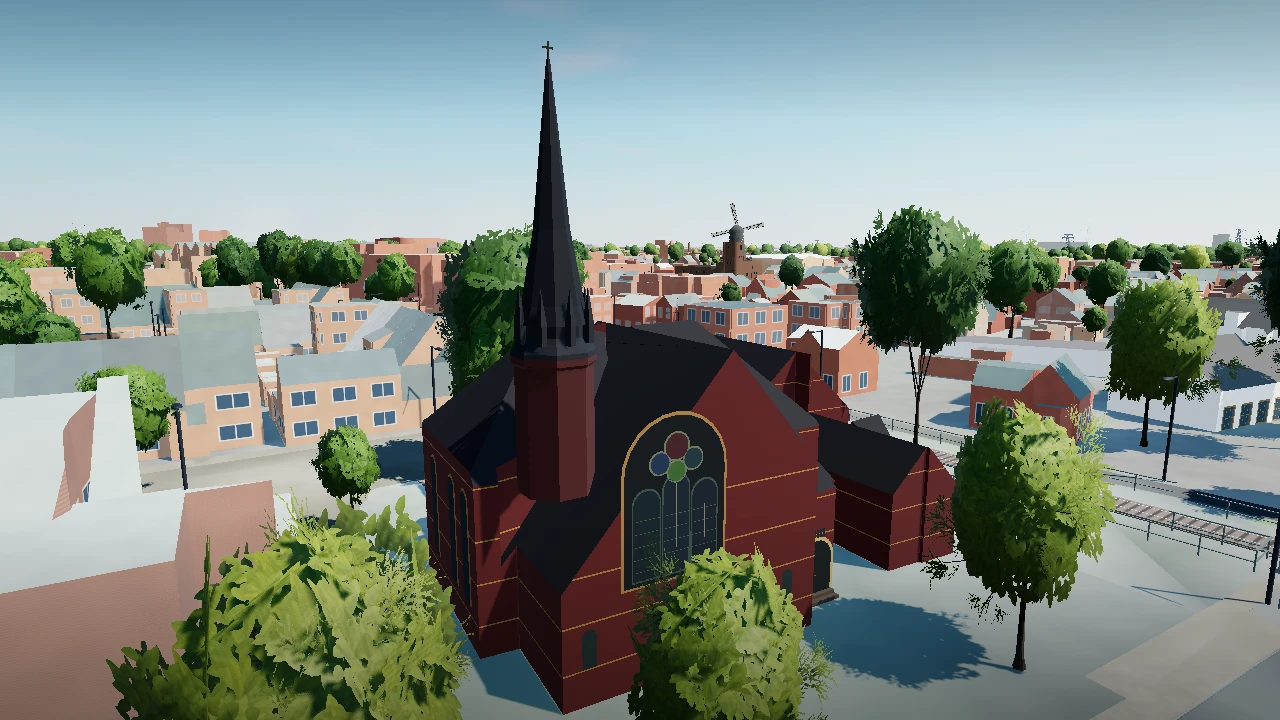
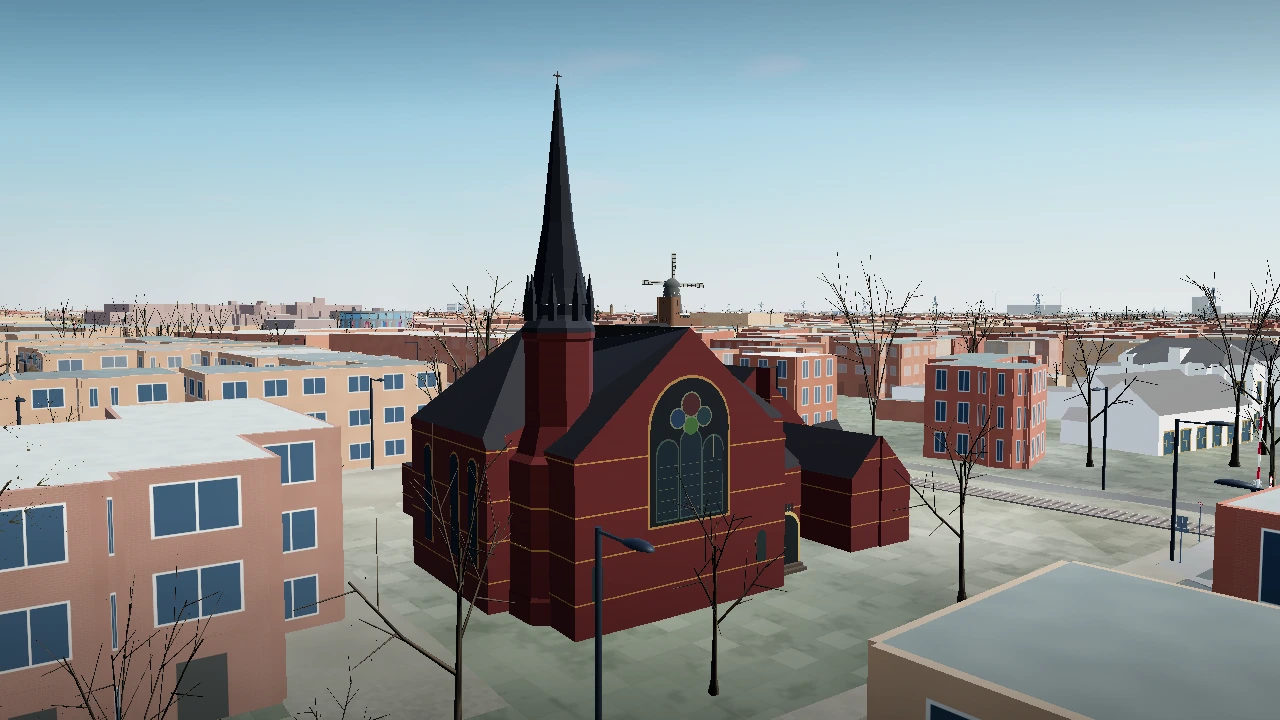
Rebrand to Ede in 3D and refine Noorderkerk
Renames the project from “Slop Ede” to “Ede in 3D” across the app UI, docs, generated report headers, and tooling user-agent strings, and adds the municipal crest SVG as the site favicon. It also updates README figures/text and refreshes the Noorderkerk presentation with a new screenshot plus geometry fixes: centered north window detailing, adjusted survey points, grounded tower shaft with masonry bands, and an explicit tower collider footprint.

diff --git a/js/ede-church-landmarks.js b/js/ede-church-landmarks.js
@@ -166,11 +166,11 @@ const NOORDER = {
     [-224.14,20.15,-312.26],[-221.46,20.15,-312.07],[-221.47,20.15,-311.88],[-219.02,20.15,-311.68],[-219.34,20.15,-306.67],[-218.63,20.15,-306.63],
     [-216.86,20.15,-306.55],[-216.73,20.15,-308.49],[-216.55,20.15,-308.28],[-216.53,20.15,-308.5],[-214.96,20.15,-308.4],[-214.91,20.15,-309.12],
     [-214.77,20.15,-311.26],[-214.54,20.15,-311.23],[-214.53,20.15,-311.58],[-212.18,20.15,-311.45],[-211.53,20.15,-311.42],[-211.43,20.15,-313.12],
-    [-206.46,20.15,-312.84],[-219.76,22.86,-284.26],[-220.86,22.88,-284.33],[-229.24,24.34,-286.58],[-229.35,24.41,-284.55],[-227.99,28.33,-285.99],
+    [-205.045,20.15,-312.755],[-219.76,22.86,-284.26],[-220.86,22.88,-284.33],[-229.24,24.34,-286.58],[-229.35,24.41,-284.55],[-227.99,28.33,-285.99],
     [-227.99,25.51,-285.99],[-226.85,26.52,-285.97],[-226.85,29.35,-285.97],[-197.93,28.57,-297.65],[-197.28,28.52,-306.87],[-229.23,27.17,-286.72],
-    [-229.24,27.17,-286.58],[-198.66,25.04,-312.39],[-206.46,33.72,-312.84],[-202.48,23.8,-285.87],[-202.18,23.5,-290.11],[-202.18,23.81,-290.11],
+    [-229.24,27.17,-286.58],[-198.66,28.12,-312.39],[-205.045,33.72,-312.755],[-202.48,23.8,-285.87],[-202.18,23.5,-290.11],[-202.18,23.81,-290.11],
     [-202.62,23.81,-290.14],[-220.69,25.73,-287.1],[-219.97,23.8,-287.05],[-219.97,25.08,-287.05],[-197.25,28.04,-307.28],[-198.31,24.27,-307.39],
-    [-198.31,27.95,-307.39],[-199.02,25.05,-307.47],[-211.43,28.12,-313.12],[-211.53,28.13,-311.42],[-219.21,25.03,-298.08],[-219.21,23.82,-298.08],
+    [-198.31,27.95,-307.39],[-199.02,28.12,-307.47],[-211.43,28.12,-313.12],[-211.53,28.12,-311.42],[-219.21,25.03,-298.08],[-219.21,23.82,-298.08],
     [-219.21,22.75,-298.08],[-225.03,22.75,-298.45],[-225.03,30.21,-298.45],[-216.86,23.84,-306.55],[-218.63,23.84,-306.63],[-216.73,23.84,-308.49],
     [-224.92,27.08,-305.99],[-225.06,24.72,-303.86],[-224.17,24.26,-312.11],[-224.23,24.2,-312.12],[-230.43,25.33,-299.04],[-231.21,25.39,-286.82],
     [-222.61,26.8,-305.72],[-222.61,26.2,-305.72],[-222.64,26.17,-305.77],[-222.64,26.86,-305.77],[-201.66,27.2,-297.63],[-201.66,28.26,-297.63],
@@ -196,7 +196,7 @@ const NOORDER = {
     [-208.16,27.36,-294.71],[-208.16,27.34,-294.71],[-207.25,27.35,-294.64],[-214.77,26.11,-311.26],[-223.39,25.35,-307.2],[-206.38,32.77,-302.01],
     [-224.67,24.01,-308.58],[-224.74,24.01,-308.59],[-224.47,24.2,-308.56],[-205.9,32.91,-303.44],[-205.9,32.35,-303.44],[-205.7,32.18,-304.06],
     [-224.81,24.68,-303.83],[-213.41,28.27,-298.38],[-213.41,23.82,-298.38],[-222.1,26.89,-302.7],[-211.9,33.75,-303.16],[-202.4,33.76,-302.58],
-    [-207.34,33.69,-300.23],
+    [-205.765,33.72,-300.165],
   ],
   faces: [
     [0,[85,45,44,86]],
@@ -969,7 +969,7 @@ function church(name, survey, style, details) {
   for (const [face, normal] of trim) {
     for (const nap of style.friezes) frieze(batch, face, normal, nap, style.band);
   }
-  details(batch);
+  details(batch, masonry);
 
   const outer = survey.ground[0].map(i => ({ x: points[i][0], z: points[i][2] }));
   const holes = survey.ground.slice(1).map(ring => ring.map(i => ({ x: points[i][0], z: points[i][2] })));
@@ -1026,25 +1026,33 @@ export function createNieuweKerk() {
 }
 
 export function createNoorderkerk() {
-  return church('Noorderkerk · Edesche Concertzaal', NOORDER, {
+  const x = -200.44, z = -308.62;
+  const towerRadius = 2.48;
+  const towerTop = 33.50;
+  const towerFootprint = Array.from({ length: 8 }, (_, i) => {
+    const angle = Math.PI / 8 + i * Math.PI / 4;
+    return { x: x + Math.cos(angle) * towerRadius, z: z + Math.sin(angle) * towerRadius };
+  });
+  const foundation = Math.min(NOORDER.base, ...towerFootprint.map(p =>
+    terrainHeightAt(p.x, p.z) + SCENE_NAP_ORIGIN - 0.06));
+  const model = church('Noorderkerk · Edesche Concertzaal', NOORDER, {
     wall: 0x8d5145, roof: 0x514b4b, friezes: [21.70, 23.63, 25.56, 27.90], band: 0xb59663,
-  }, batch => {
+  }, (batch, masonry) => {
     const front = frontage([-211.43, -313.12], [-198.66, -312.39]);
-    const center = -1.42; // Align the window with the surveyed gable ridge.
-    arch(batch, front, center, 5.02, 24.46, 31.50, 0xb1956b, 0.041);
-    arch(batch, front, center, 4.77, 24.57, 31.36, 0x27383d, 0.061);
+    arch(batch, front, 0, 5.02, 24.46, 31.50, 0xb1956b, 0.041);
+    arch(batch, front, 0, 4.77, 24.57, 31.36, 0x27383d, 0.061);
     for (let i = -1; i <= 1; i++) {
-      arch(batch, front, center + 1.38 * i, 1.35, 24.73, 28.58 + (i === 0 ? 0.42 : 0), 0x737d72, 0.075);
-      arch(batch, front, center + 1.38 * i, 1.22, 24.81, 28.49 + (i === 0 ? 0.42 : 0), GLASS[i + 1], 0.085);
-      for (let j = 0; j < 5; j++) rect(batch, front, center + 1.38 * i, 1.21, 25.17 + j * .53,
+      arch(batch, front, 1.38 * i, 1.35, 24.73, 28.58 + (i === 0 ? 0.42 : 0), 0x737d72, 0.075);
+      arch(batch, front, 1.38 * i, 1.22, 24.81, 28.49 + (i === 0 ? 0.42 : 0), GLASS[i + 1], 0.085);
+      for (let j = 0; j < 5; j++) rect(batch, front, 1.38 * i, 1.21, 25.17 + j * .53,
         25.19 + j * .53, 0x828475, 0.096);
-      rect(batch, front, center + 1.38 * i, .028, 24.98, 28.56, 0x9d9780, 0.098);
+      rect(batch, front, 1.38 * i, .028, 24.98, 28.56, 0x9d9780, 0.098);
     }
     for (const [u, nap, radius, hue] of [
       [0, 30.10, .54, 0x7b5351], [-.78, 29.49, .43, 0x536a6b], [.78, 29.49, .43, 0x55697b], [0, 29.08, .41, 0x73895d],
     ]) {
-      circle(batch, front, center + u, nap, radius + 0.075, 0x92927d, 0.085);
-      circle(batch, front, center + u, nap, radius, hue, 0.098);
+      circle(batch, front, u, nap, radius + 0.075, 0x92927d, 0.085);
+      circle(batch, front, u, nap, radius, hue, 0.098);
     }
     for (const u of [-4.7, 5.27]) arch(batch, front, u, 0.61, 21.75, 23.38, 0x53625d, 0.052);
     const entry = frontage([-214.53, -311.58], [-212.18, -311.45]);
@@ -1059,8 +1067,15 @@ export function createNoorderkerk() {
       arch(batch, side, u, 0.98, 22.23, 27.37, GLASS[1], 0.066);
       for (let i = 0; i < 5; i++) rect(batch, side, u, .94, 23.02 + i * .72, 23.07 + i * .72, FRAME, .077);
     }
-    const x = -200.44, z = -308.62;
-    spindle(batch, x, z, 8, [[1.64, 27.74], [1.64, 33.08], [1.76, 33.22], [1.76, 33.50]], 0x825348);
+    const firstBrick = batch.vertices.length / 3;
+    spindle(batch, x, z, 8, [
+      [towerRadius, foundation], [towerRadius, 21.24], [2.40, 21.42], [2.40, 27.55],
+      [2.08, 27.87], [1.64, 29.18], [1.64, 33.08], [1.76, 33.22], [1.76, towerTop],
+    ], 0x8d5145);
+    for (let i = firstBrick; i < batch.vertices.length / 3; i++) masonry[i] = 1;
+    for (const nap of [23.63, 25.56]) {
+      spindle(batch, x, z, 8, [[2.415, nap - 0.04], [2.415, nap + 0.04]], 0xb59663);
+    }
     spindle(batch, x, z, 8, [[1.78, 33.50], [1.75, 33.71], [1.43, 34.12], [1.34, 34.29], [1.36, 34.77]], 0x525155);
     spindle(batch, x, z, 8, [[1.52, 34.79], [1.29, 35.54], [.74, 38.54], [.073, 44.96]], 0x49494d);
     for (let i = 0; i < 8; i++) {
@@ -1070,6 +1085,13 @@ export function createNoorderkerk() {
     }
     cross(batch, x, z, 44.86, .74, 0x655949);
   });
+  model.userData.colliders.push({
+    minX: Math.min(...towerFootprint.map(p => p.x)), maxX: Math.max(...towerFootprint.map(p => p.x)),
+    minZ: Math.min(...towerFootprint.map(p => p.z)), maxZ: Math.max(...towerFootprint.map(p => p.z)),
+    minY: foundation - SCENE_NAP_ORIGIN, maxY: towerTop - SCENE_NAP_ORIGIN,
+    polygon: { outer: towerFootprint, holes: [] },
+  });
+  return model;
 }
 
 export function createSintAntoniuskerk() {

diff --git a/index.html b/index.html
@@ -3,8 +3,8 @@
 <head>
   <meta charset="UTF-8" />
   <meta name="viewport" content="width=device-width, initial-scale=1.0, viewport-fit=cover" />
-  <title>Slop Ede</title>
-  <link rel="icon" href="data:," />
+  <title>Ede in 3D</title>
+  <link rel="icon" type="image/svg+xml" href="./assets/wapen-van-ede.svg" />
   <meta name="description" content="Explore Ede in 3D on foot, by car, bicycle, or helicopter." />
   <!-- Pinned Three.js runtime is served locally for offline play. -->
   <script type="importmap">
@@ -216,14 +216,14 @@
   <div id="loading-overlay" role="status" aria-live="polite">
     <div class="loader">
       <img class="ede-logo loader-logo" src="./assets/wapen-van-ede.svg" alt="Wapen van Ede" />
-      <div class="loader-title">Slop Ede</div>
+      <div class="loader-title">Ede in 3D</div>
       <div class="loader-track is-indeterminate" aria-hidden="true"><span id="loading-progress" class="loader-fill"></span></div>
       <div id="loading-status">Loading city code and data...</div>
     </div>
   </div>
 
   <!-- 3D WebGPU Viewport Container -->
-  <main id="canvas-container" data-train-prediction-seconds="32" aria-label="3D Interactive Slop Ede Viewport"></main>
+  <main id="canvas-container" data-train-prediction-seconds="32" aria-label="Interactive map of Ede in 3D"></main>
   <div class="map-attribution">
     <a href="https://api.pdok.nl/lv/bgt/ogc/v1/collections?f=html" target="_blank" rel="noopener noreferrer">Structures and streets via PDOK BGT</a>
     <a href="https://geo.ede.nl/geoserver/Ede/wfs?service=WFS&amp;request=GetCapabilities" target="_blank" rel="noopener noreferrer">Bins and play sites by Gemeente Ede</a>
@@ -248,8 +248,8 @@
       <img class="ede-logo" src="./assets/wapen-van-ede.svg" alt="Wapen van Ede" />
       <div class="brand-titles">
         <div class="brand-heading">
-          <h1>Slop Ede</h1>
-          <a class="repo-link" href="https://github.com/rolandsmeenk/slop-ede/" target="_blank" rel="noopener noreferrer" aria-label="Slop Ede on GitHub (opens in a new tab)">GitHub <span aria-hidden="true">↗</span></a>
+          <h1>Ede in 3D</h1>
+          <a class="repo-link" href="https://github.com/rolandsmeenk/slop-ede/" target="_blank" rel="noopener noreferrer" aria-label="Ede in 3D on GitHub (opens in a new tab)">GitHub <span aria-hidden="true">↗</span></a>
         </div>
         <div class="brand-subtitle">three.js · WebGPU · TSL · <span id="hud-fps" class="fps-ok">60</span> fps</div>
       </div>

diff --git a/tools/build-ede-bgt-detail.py b/tools/build-ede-bgt-detail.py
@@ -117,7 +117,7 @@ def fetch_gates(directory, sites, affine):
             bbox = ','.join(f'{value:.8f}' for value in geographic_bounds(bounds, affine))
             url = f'https://api.openstreetmap.org/api/0.6/map?bbox={bbox}'
             raw = subprocess.check_output(['curl', '-fsSL', '--max-time', '12', '--compressed', '--user-agent',
-                                           'Slop Ede offline street-detail importer (github.com/rolandsmeenk/slop-ede)', url])
+                                           'Ede in 3D offline street-detail importer (github.com/rolandsmeenk/slop-ede)', url])
             for node in ElementTree.fromstring(raw).findall('node'):
                 tags = {tag.attrib['k']: tag.attrib['v'] for tag in node.findall('tag')}
                 if tags.get('barrier') in GATE_TAGS.split('|'):

diff --git a/tools/report-ede-crossings.py b/tools/report-ede-crossings.py
@@ -125,7 +125,7 @@ def report(raw, catalog, output, survey=None):
     topology = catalog['topology']
     counts = catalog['counts']
     with output.open('w') as file:
-        file.write('# Slop Ede crossing audit\n\n')
+        file.write('# Ede in 3D crossing audit\n\n')
         file.write(f'The catalogue contains {counts["knownStructural"]} requested structures, {counts["confirmed"]} additional confirmed map features, '
                    f'{counts["candidate"]} discovery candidates and {counts["level"]} public level crossings. '
                    f'This run used Chrome {raw["backend"]}. There are {levels["Pass"]} passed, {levels["Fail"]} failed and {levels["Unverified"]} unverified route levels. '

diff --git a/tools/ede_municipal_detail.py b/tools/ede_municipal_detail.py
@@ -76,7 +76,7 @@ def fetch_access_tiles(directory, geographic_bounds):
         box_string = ','.join(f'{n:.8f}' for n in bounds)
         url = 'https://api.openstreetmap.org/api/0.6/map?bbox=' + box_string
         command = ['curl', '-fsS', '--compressed', '--max-time', '20', '--user-agent',
-                   'Slop Ede offline furniture audit (github.com/rolandsmeenk/slop-ede)', url]
+                   'Ede in 3D offline furniture audit (github.com/rolandsmeenk/slop-ede)', url]
         try:
             raw = subprocess.check_output(command)
         except subprocess.CalledProcessError:

diff --git a/tools/build-ede-motorway-lanes.py b/tools/build-ede-motorway-lanes.py
@@ -54,7 +54,7 @@ def osm_tags(way_ids):
     way_ids = list(way_ids)
     for offset in range(0, len(way_ids), 40):
         query = urlencode({'ways': ','.join(way_ids[offset:offset + 40])})
-        request = Request(OSM + '?' + query, headers={'User-Agent': 'slop-ede/1.0 (https://github.com/rolandsmeenk/slop-ede)'})
+        request = Request(OSM + '?' + query, headers={'User-Agent': 'ede-in-3d/1.0 (https://github.com/rolandsmeenk/slop-ede)'})
         with urlopen(request, timeout=40) as response:
             ways = ET.parse(response).getroot().findall('way')
         for way in ways:

diff --git a/tools/build-ede-sports.py b/tools/build-ede-sports.py
@@ -238,7 +238,7 @@ def build(paths, snapshot, scene):
         'version': 1,
         'source': {'name': 'OpenStreetMap contributors', 'license': 'ODbL 1.0',
                    'url': 'https://www.openstreetmap.org/copyright', 'date': snapshot,
-                   'tesqua': 'Existing Slop Ede court survey',
+                   'tesqua': 'Existing Ede in 3D court survey',
                    'moorfielders': 'PDOK 2026_orthoHR diamond alignment',
                    'tesquaSupersedes': sorted(set(superseded))},
         'counts': {'pitches': len(pitches), 'bySport': dict(sorted(Counter(

diff --git a/tools/ede_live_trains.py b/tools/ede_live_trains.py
@@ -278,7 +278,7 @@ class TrainUpdates:
         self.updates = []
 
     def __call__(self):
-        headers = {'User-Agent': 'Slop Ede transit simulator', 'Accept-Encoding': 'gzip'}
+        headers = {'User-Agent': 'Ede in 3D transit simulator', 'Accept-Encoding': 'gzip'}
         if self.modified:
             headers['If-Modified-Since'] = self.modified
         request = Request(OVAPI_URL, headers=headers)

diff --git a/tools/build-ede-dtb.py b/tools/build-ede-dtb.py
@@ -1,5 +1,5 @@
 #!/usr/bin/env python3
-"""Bake Rijkswaterstaat DTB motorway furniture into Slop Ede's local frame."""
+"""Bake Rijkswaterstaat DTB motorway furniture into Ede in 3D's local frame."""
 
 import argparse
 from collections import Counter, defaultdict

diff --git a/tools/build-ede-terrain.py b/tools/build-ede-terrain.py
@@ -1,5 +1,5 @@
 #!/usr/bin/env python3
-"""Build the Slop Ede terrain asset from a PDOK AHN GeoTIFF in EPSG:28992."""
+"""Build the Ede in 3D terrain asset from a PDOK AHN GeoTIFF in EPSG:28992."""
 
 import argparse
 from array import array

diff --git a/tools/ede_gis.py b/tools/ede_gis.py
@@ -1,4 +1,4 @@
-"""Pinned horizontal GIS conversions in Slop Ede’s offline pipeline."""
+"""Pinned horizontal GIS conversions in Ede in 3D’s offline pipeline."""
 
 from functools import cache
 from hashlib import sha256

diff --git a/README.md b/README.md
@@ -1,8 +1,8 @@
-# Slop Ede
+# Ede in 3D
 
 Explore Ede, the Netherlands, in a 3D browser game built around its real streets, landscapes and landmarks. Wander from Oude Kerk to Marktplein, cycle out to Huis Kernhem, or fly a helicopter over the ENKA factory.
 
-**[Play Slop Ede](https://rolandsmeenk.github.io/slop-ede/)**
+**[Play Ede in 3D](https://rolandsmeenk.github.io/slop-ede/)**
 
 ![Oude Kerk rising above the rooftops of Ede town centre](assets/screenshots/oude-kerk.webp)
 
@@ -18,13 +18,22 @@ Explore Ede, the Netherlands, in a 3D browser game built around its real streets
 | --- | ---: |
 | Map extent | 7.4 × 5.4 km |
 | Scenic teleport presets | 10 |
+| Custom landmark models | 93 |
 | Building footprints in the base map | 44,844 |
+| Street litter bins | 555 |
+| Waste collection sites | 395 |
+| Mapped playground outlines | 119 |
+| Municipal play-site locations | 218 |
+| Playgrounds with surveyed equipment | 2 |
+| Outdoor sports pitches, courts and tracks | 169 |
+| Mapped traffic-light locations | 251 |
+| Lamp posts | 15,241 |
 | Mapped tree records | 50,352 |
 | Mapped roads and paths | 937 km |
 | Mapped railway tracks | 37 km |
 | Modeled parking spaces | 18,193 |
 
-Figures come from the bundled map and the Teleport menu. Lengths sum the mapped ways, including separate carriageways and parallel tracks. [Map data and sources](docs/map-and-assets.md)
+Counts come from the bundled map, placement assets and landmark registry. The landmark total includes 89 registered sites, Ede-Wageningen station, the Sherman Tank monument and the two Chico and Chica sculptures. Municipal play-site points can overlap mapped playground outlines. Each traffic-light location is a mapped signal point, and each waste collection site counts as one placement even if it serves several waste streams. Lengths sum the mapped ways, including separate carriageways and parallel tracks. [Map data and sources](docs/map-and-assets.md)
 
 ## Screenshots
 
@@ -38,7 +47,7 @@ Figures come from the bundled map and the Teleport menu. Lengths sum the mapped 
 
 | Noorderkerk | Astrant mural | NIZO Food Research |
 | --- | --- | --- |
-| ![Noorderkerk’s brick façade, arched window and spire](assets/screenshots/noorderkerk.webp) | ![Studio Giftig’s Muzikanten mural across Kuiperplein](assets/screenshots/astrant-mural.webp) | ![Brick and glass frontage at NIZO Food Research](assets/screenshots/nizo.webp) |
+| ![Noorderkerk with its centered stained-glass window beneath a symmetrical gable and its brick tower extending to ground level](assets/screenshots/noorderkerk.webp) | ![Studio Giftig’s Muzikanten mural across Kuiperplein](assets/screenshots/astrant-mural.webp) | ![Brick and glass frontage at NIZO Food Research](assets/screenshots/nizo.webp) |
 
 ## See Ede in a different light
 
@@ -54,4 +63,4 @@ Choose Golden Hour, Midday, Blue Hour or Night, or switch to **Live Time** to fo
 
 Fork it, remix it, or use it to make a game, animation, film or experiment. Explore other cities in [Slop Cities](https://github.com/zz85/slop-cities).
 
-Slop Ede is forked from [Slop Utrecht](https://github.com/bertt/slop-utrecht), based on [Slop New York](https://github.com/mrdoob/slop-newyork). The code is available under the [MIT License](LICENSE). See [License and data](docs/map-and-assets.md#license-and-data) for map and imagery credits.
+Ede in 3D is forked from [Slop Utrecht](https://github.com/bertt/slop-utrecht), based on [Slop New York](https://github.com/mrdoob/slop-newyork). The code is available under the [MIT License](LICENSE). See [License and data](docs/map-and-assets.md#license-and-data) for map and imagery credits.
